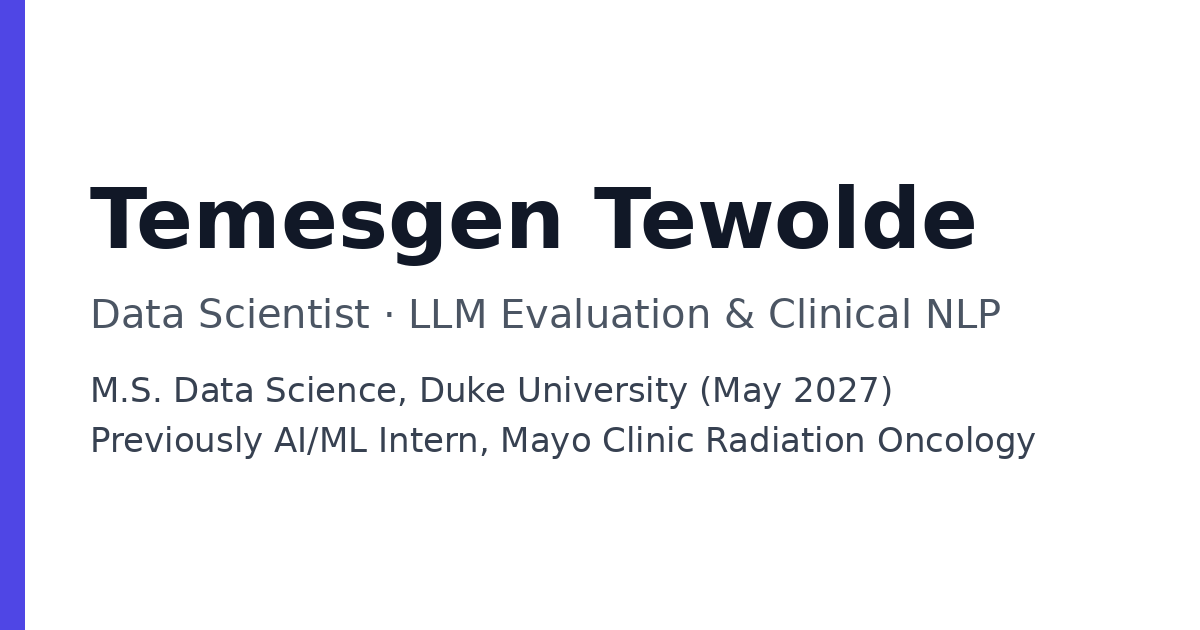
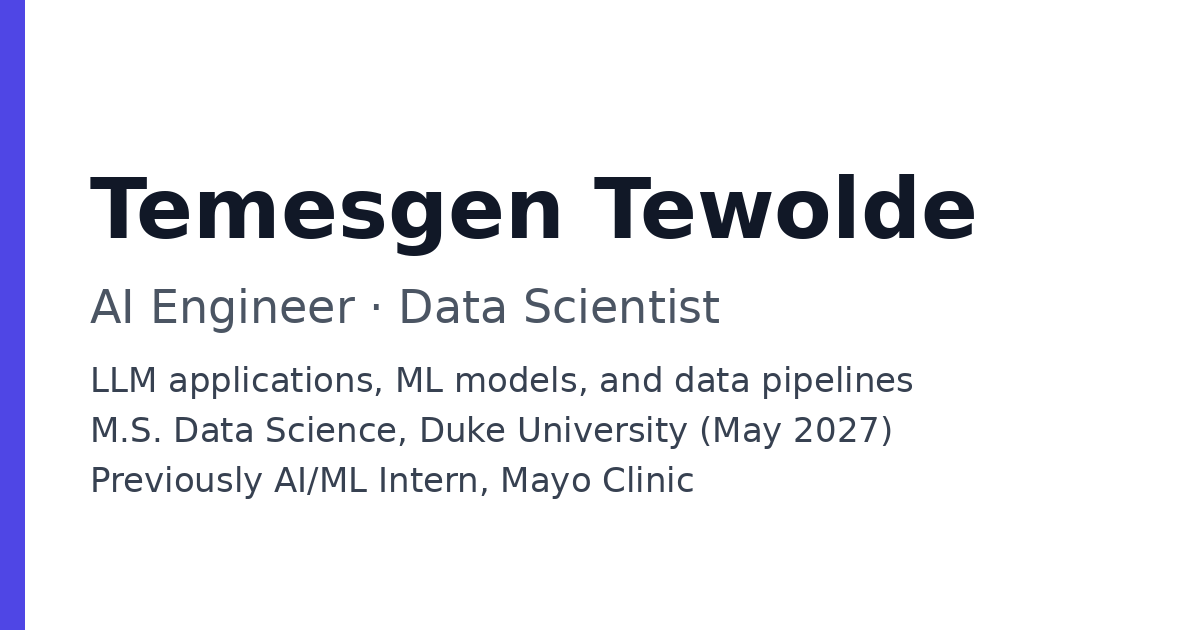
Reposition portfolio: AI engineer and data scientist

diff --git a/src/portfolio.jsx b/src/portfolio.jsx
@@ -5,7 +5,7 @@ const Portfolio = () => {
   // Portfolio data: edit this block to update the site.
   const data = {
     name: "Temesgen Tewolde",
-    title: "Data Scientist · LLM Evaluation & Clinical NLP",
+    title: "AI Engineer · Data Scientist",
     email: "teme.tewolde@gmail.com",
     github: "https://github.com/codeteme",
     linkedin: "https://www.linkedin.com/in/temesgen-tewolde",
@@ -13,9 +13,16 @@ const Portfolio = () => {
     researchgate: "https://www.researchgate.net/profile/Temesgen-Tewolde",
     resume: "/Temesgen_Tewolde_Resume.pdf",
 
-    bio: "I build and evaluate large language model systems for healthcare, with a focus on whether a model's output and reasoning can be trusted. M.S. Data Science student at Duke University (4.0 GPA). Previously an AI/ML intern at Mayo Clinic Radiation Oncology.",
+    bio: "I build applied AI and ML systems end to end: LLM applications and agents, predictive and causal models, and the data pipelines and APIs that put them into production. M.S. Data Science student at Duke University (4.0 GPA). Previously an AI/ML intern at Mayo Clinic Radiation Oncology, where I built LLM systems for clinical documentation.",
 
-    availability: "Open to full-time roles starting July 2027 (graduating May 2027). Based in Durham, NC, and open to relocating.",
+    availability: "Open to full-time AI engineer, ML engineer, and data scientist roles starting July 2027 (graduating May 2027). Based in Durham, NC, and open to relocating.",
+
+    focus: [
+      { area: "AI engineering", detail: "LLM applications, agents, RAG, structured extraction, and evaluation, shipped with FastAPI and React." },
+      { area: "Machine learning", detail: "Deep learning, computer vision, and model interpretability." },
+      { area: "Data science", detail: "Predictive and survival models, causal inference, and statistical analysis." },
+      { area: "Data engineering", detail: "Streaming and batch pipelines with Kafka, Spark, Airflow, and BigQuery." }
+    ],
 
     experience: [
       {
@@ -60,21 +67,39 @@ const Portfolio = () => {
 
     projects: [
       {
-        title: "MedLens: Does a Medical LLM's Reasoning Report What Changed Its Answer?",
-        description: "Planted hints in 375 MedQA questions for MedGemma 4B. A hint changed the answer in 912 runs, and the written reasoning mentioned it in only 3.3%. Traced the hint with Gemma Scope 2 sparse autoencoders and confirmed it by switching features off; a probe on layer-22 activations flagged silent hint-following with AUROC 0.98, vs. 0.56–0.72 for text-only detectors. Pre-registered fixes and the prompt-injection link were reported as negative results.",
-        tech: ["PyTorch", "Gemma Scope 2 / SAELens", "vLLM on TPU", "Interpretability", "pytest"],
-        github: "https://github.com/codeteme/medlens-honesty"
-      },
-      {
         title: "Ambient Clinical Documentation (Mayo Clinic)",
-        description: "Full-stack system built with radiation oncologists that listens to clinic visits and outputs CTCAE-graded adverse events. Agreement with clinician labels reached kappa above 0.8, against a clinician-to-clinician baseline of about 0.6. Internal project; code not public.",
-        tech: ["Gemini", "FastAPI", "React", "LLM Evaluation"]
+        description: "Full-stack LLM system built with radiation oncologists that listens to clinic visits and outputs CTCAE-graded adverse events. Agreement with clinician labels reached kappa above 0.8, against a clinician-to-clinician baseline of about 0.6. Internal project; code not public.",
+        tech: ["Gemini", "FastAPI", "React", "Speech-to-Text", "Evaluation"]
       },
       {
         title: "AI Code Quality Assistant",
         description: "Four LLM agents (style, idioms, clean code, testing) each run a scan, suggest, apply, validate loop with retries, plus an agentic mode where the LLM decides which tools to call. The testing agent retrieves similar test files from ChromaDB (RAG) so generated tests match the codebase. Available as a CLI, a Dockerized REST API, and a VS Code extension.",
         tech: ["Python", "LLM Agents", "RAG", "ChromaDB", "Docker", "pytest"],
         github: "https://github.com/codeteme/multi-agent-code-assistant"
+      },
+      {
+        title: "ICU Mortality Clinical Decision Support",
+        description: "Clinical decision support engine that predicts ICU mortality with survival analysis models on MIMIC-IV electronic health record data.",
+        tech: ["R", "Survival Analysis", "MIMIC-IV", "EHR Data"],
+        github: "https://github.com/codeteme/clinical-decision-support-engine"
+      },
+      {
+        title: "MedLens: Hidden Hint-Following in a Medical LLM",
+        description: "Tested whether MedGemma 4B's written reasoning reports what changed its answer across 375 MedQA questions: a planted hint changed 912 answers and was mentioned in only 3.3%. A probe on the model's internal activations flagged silent hint-following with AUROC 0.98, vs. 0.56–0.72 for text-only detectors.",
+        tech: ["PyTorch", "Gemma Scope 2", "vLLM on TPU", "Interpretability"],
+        github: "https://github.com/codeteme/medlens-honesty"
+      },
+      {
+        title: "Dashcam Collision Risk Prediction",
+        description: "Predicts collision risk from dashcam video by combining video, depth, and object detection models.",
+        tech: ["PyTorch", "VideoMAE", "DepthAnything", "YOLO", "Computer Vision"],
+        github: "https://github.com/codeteme/detect-to-protect"
+      },
+      {
+        title: "Prison Education and Recidivism",
+        description: "Difference-in-differences study of the 2016 Second Chance Pell expansion and two-year recidivism, using individual-level prison release data across 34 states (2005–2018), with a policy memo.",
+        tech: ["Causal Inference", "Difference-in-Differences", "Python", "Statistics"],
+        github: "https://github.com/codeteme/prison-education-recidivism"
       },
       {
         title: "SCOPE-TRA: LLM-Based Profiling of Online Communities",
@@ -129,10 +154,11 @@ const Portfolio = () => {
     ],
 
     skills: {
-      "LLMs & NLP": ["OpenAI API", "Gemini", "LangChain", "RAG", "Prompt Engineering", "Structured Extraction", "LLM Evaluation", "LLM-as-Judge", "spaCy"],
-      "ML & Interpretability": ["PyTorch", "Hugging Face Transformers", "SAELens", "vLLM", "scikit-learn", "XGBoost", "MLflow"],
-      "Engineering & Data": ["Python", "SQL", "R", "JavaScript", "FastAPI", "React", "Docker", "pytest", "Git"],
-      "Cloud & Pipelines": ["GCP", "BigQuery", "AWS (S3)", "PySpark", "Airflow", "Kafka", "HPC (SLURM)"]
+      "Languages": ["Python", "SQL", "R", "TypeScript/JavaScript", "Bash"],
+      "AI & LLMs": ["OpenAI API", "Gemini", "LangChain", "RAG", "Agents", "Structured Extraction", "Prompt Engineering", "Evaluation", "spaCy"],
+      "Machine Learning": ["PyTorch", "Hugging Face Transformers", "scikit-learn", "XGBoost", "MLflow", "vLLM", "Computer Vision"],
+      "Data & Statistics": ["Pandas", "Survival Analysis", "Causal Inference", "BigQuery", "PySpark", "Airflow", "Kafka"],
+      "Backend & Cloud": ["FastAPI", "React", "Docker", "PostgreSQL", "pytest", "Git", "GCP", "AWS (S3)", "HPC (SLURM)"]
     },
 
     education: [
@@ -183,6 +209,14 @@ const Portfolio = () => {
           <p className="mb-8 text-sm text-indigo-700 font-medium max-w-2xl">
             {data.availability}
           </p>
+          <div className="mb-8 grid grid-cols-1 md:grid-cols-2 gap-4 max-w-3xl">
+            {data.focus.map((f, i) => (
+              <div key={i} className="border-l-4 border-indigo-600 pl-4">
+                <div className="font-semibold text-gray-900">{f.area}</div>
+                <div className="text-sm text-gray-700">{f.detail}</div>
+              </div>
+            ))}
+          </div>
           <div className="flex flex-wrap gap-x-6 gap-y-3">
             <a href={data.resume} target="_blank" rel="noopener noreferrer"
                className="flex items-center gap-2 text-sm font-medium px-4 py-2 bg-indigo-600 text-white rounded-lg hover:bg-indigo-700 transition-colors">

diff --git a/index.html b/index.html
@@ -6,15 +6,15 @@
     <meta name="viewport" content="width=device-width, initial-scale=1.0" />
 
     <!-- SEO -->
-    <title>Temesgen Tewolde | Data Scientist, LLM Evaluation & Clinical NLP</title>
-    <meta name="description" content="Temesgen Tewolde: M.S. Data Science student at Duke University building and evaluating LLM systems for healthcare. Former AI/ML intern at Mayo Clinic Radiation Oncology." />
-    <meta name="keywords" content="data science, machine learning, LLM evaluation, clinical NLP, interpretability, Duke University, portfolio" />
+    <title>Temesgen Tewolde | AI Engineer & Data Scientist</title>
+    <meta name="description" content="Temesgen Tewolde: AI engineer and data scientist building LLM applications, ML models, and data pipelines. M.S. Data Science, Duke University (May 2027). Former AI/ML intern at Mayo Clinic." />
+    <meta name="keywords" content="AI engineer, machine learning engineer, data scientist, LLM, RAG, agents, deep learning, causal inference, Duke University, portfolio" />
     <meta name="author" content="Temesgen Tewolde" />
 
     <!-- Link previews (LinkedIn, Slack, X). Update these URLs if the domain changes. -->
     <meta property="og:type" content="website" />
-    <meta property="og:title" content="Temesgen Tewolde | Data Scientist, LLM Evaluation & Clinical NLP" />
-    <meta property="og:description" content="Building and evaluating LLM systems for healthcare. M.S. Data Science, Duke University (May 2027)." />
+    <meta property="og:title" content="Temesgen Tewolde | AI Engineer & Data Scientist" />
+    <meta property="og:description" content="LLM applications, ML models, and data pipelines, built end to end. M.S. Data Science, Duke University (May 2027)." />
     <meta property="og:url" content="https://portfolio-nine-mu-21.vercel.app/" />
     <meta property="og:image" content="https://portfolio-nine-mu-21.vercel.app/og.png" />
     <meta property="og:image:width" content="1200" />
